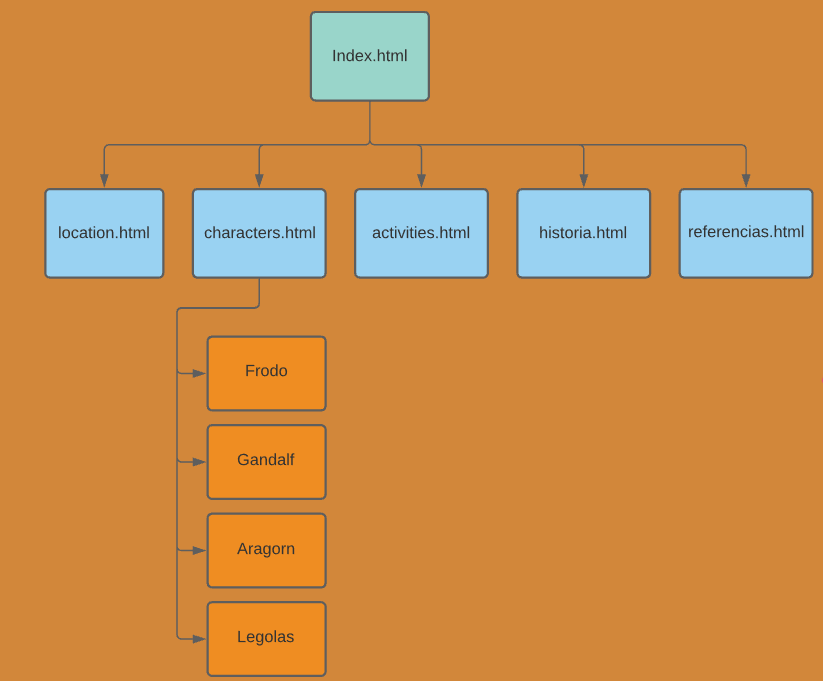
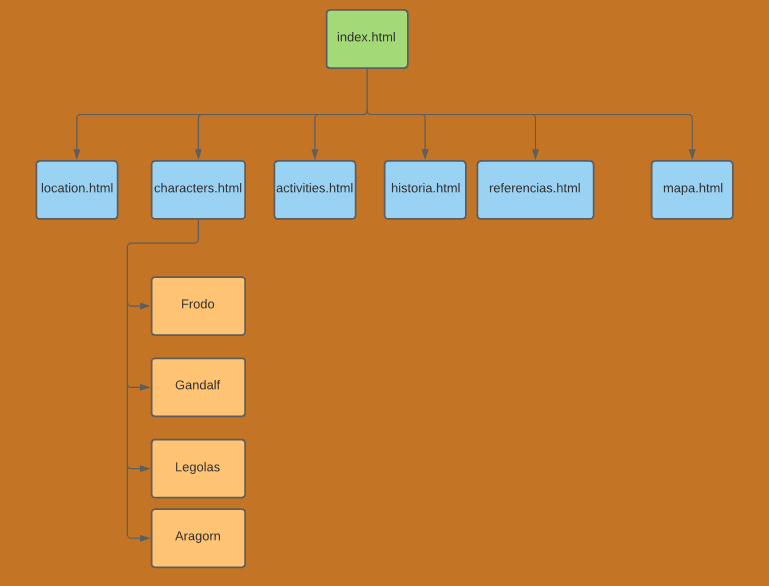
:alien: ejercicio 2 grafica interactiva

Changed region(s): [[0.0312, 0.0, 0.9987, 1.0], [0.9987, 0.5529, 1.0, 0.5836]]

diff --git a/css/estilos.css b/css/estilos.css
@@ -12,8 +12,8 @@
     font-family: Middleearth;
     src: url('../fonts/Middleearth-ao6m.ttf');/*font del señor de los anillos*/
 }
-body {
-    background-color: #D2873A;  /* define un color de fondo para todas las páginas */
+.body {/*fondo pagina historia*/
+    background-color: #c47425;
 }
 .body1 {/*fondo pagina principal*/
     background-image: url(../imagenes/index_background.jpg);
@@ -54,6 +54,9 @@ body {
     background-size: 100% 100%;
     background-position: 0 0px;
     position: sticky;
+}
+.body6 {/*fondo pagina historia*/
+    background-color: #8d6741;
 }
 .title {/*titulo de la pagina*/
     z-index: 2;
@@ -119,7 +122,7 @@ li {
     /*display: block;*/
     color: #DAB47C;
     text-align: center;
-    padding: 5px 105px 5px 105px;
+    padding: 5px 80px 5px 80px;
     text-decoration: none;
     font-size: 17px;
     background-color: #8E5232;
@@ -339,6 +342,109 @@ li {
     text-shadow: 1px 1px #000000;
     font-size: 30px;
 }
+.mapabox{/*contenedor div del mapa*/
+    display:grid;
+    height: 100%;
+}
+.mapa{/*mapa*/
+    max-width: 100%;
+    max-height: 100vh;
+    margin: auto;
+}
+.ringbutton1{/*estilo del boton del mapa*/
+    height: 20px;
+    width: 20px;
+    position: absolute;
+    top: 610px;
+    left: 1050px;
+}
+.ringbutton2{/*estilo del boton del mapa*/
+    height: 20px;
+    width: 20px;
+    position: absolute;
+    top: 610px;
+    left: 750px;
+}
+.ringbutton3{/*estilo del boton del mapa*/
+    height: 20px;
+    width: 20px;
+    position: absolute;
+    top: 490px;
+    left: 750px;
+}
+.ringbutton4{/*estilo del boton del mapa*/
+    height: 20px;
+    width: 20px;
+    position: absolute;
+    top: 360px;
+    left: 890px;
+}
+.ringbutton5{/*estilo del boton del mapa*/
+    height: 20px;
+    width: 20px;
+    position: absolute;
+    top: 320px;
+    left: 550px;
+}
+.ringbutton1:hover{/*estilo del boton del mapa*/
+    opacity: 0.5;
+    cursor: pointer;
+}
+.ringbutton2:hover{/*estilo del boton del mapa*/
+    opacity: 0.5;
+    cursor: pointer;
+}
+.ringbutton3:hover{/*estilo del boton del mapa*/
+    opacity: 0.5;
+    cursor: pointer;
+}
+.ringbutton4:hover{/*estilo del boton del mapa*/
+    opacity: 0.5;
+    cursor: pointer;
+}
+.ringbutton5:hover{/*estilo del boton del mapa*/
+    opacity: 0.5;
+    cursor: pointer;
+}
+/* Modal de información mapa */
+.modal {
+    display: none; /* oculto */
+    position: fixed; 
+    z-index: 2; /* encima de todo */
+    left: 0;
+    top: 0;
+    width: 100%; 
+    height: 100%; 
+    overflow: auto; /* por si se requiere hacer scroll */
+    background-color: rgb(0,0,0); 
+    background-color: rgba(0,0,0,0.4); 
+}
+/* Contenido del modal */
+.modal-content {
+    background-color:  rgba(0, 0, 0, 0.7);
+    border-radius:5px;
+    margin: auto;
+    font-family: Middleearth;
+    color: #E6B956;
+    margin-top: 300px;
+    padding: 20px;
+    border: 1px solid #888;
+    width: 50%;
+}
+/* boton para cerrar el modal */
+.close {
+    color: #aaa;
+    float: right;
+    font-size: 28px;
+    font-weight: bold;
+}
+  
+  .close:hover,
+  .close:focus {
+    color: #E6B956;
+    text-decoration: none;
+    cursor: pointer;
+}
 
   
 /*cambios en el aspecto de algunos elemntos en el caso de que la pantalla dismunya*/
@@ -371,7 +477,7 @@ li {
     }
 }
 
-@media screen and (max-width: 1100px) {
+@media screen and (max-width: 1300px) {
     .navbar a{
         padding: 5px 30px 5px 30px;
     }
@@ -387,10 +493,10 @@ li {
     
     
 }
-@media screen and (max-width: 700px) {
+@media screen and (max-width: 800px) {
     .navbar a{
-        padding: 5px 5px 5px 5px;
-        font-size: 13px;
+        padding: 5px 3px 5px 3px;
+        font-size: 11px;
     }
     .map {
         width: 100%;

diff --git a/map.js b/map.js
@@ -1,0 +1,36 @@
+
+function showModal(id){
+    console.log("click");
+    document.getElementById("Modal").style.display="block";
+    parent = document.getElementById("contenidoModal");
+    title = parent.children[1];
+    content = parent.children[2];
+    if(id==1){
+        title.innerHTML="Mordor"
+        content.innerHTML="Mordor es un país situado al sureste de la Tierra Media, que tuvo gran importancia durante la Guerra del Anillo por ser el lugar donde Sauron, el Señor Oscuro, decidió edificar su fortaleza de Barad-dûr para intentar atacar y dominar a todos los pueblos de la Tierra Media. Se trata de una región desolada, rodeada de montañas con un interior desértico sin vegetación. "
+    }else if(id==2){
+        title.innerHTML="Gondor"
+        content.innerHTML="Gondor es el nombre que recibió el reino del exilio del Sur que fue fundado después de la Caída de Númenor por Isildur y su hermano Anárion. El padre de ambos, Elendil, fundador de Arnor, el reino del exilio del Norte, también ejercía soberanía sobre Gondor. "
+    }else if(id==3){
+        title.innerHTML="Rohan"
+        content.innerHTML="Rohan es un reino fundado por los Hombres del Norte, los Eorlingas, que ocupa las grandes llanuras cubiertas de pastos situadas al norte de las Montañas Blancas y al este de las Montañas Nubladas. Sus habitantes descienden de los hombres de Éothéod, y se caracterizan por ser amantes de los caballos y por ser los principales aliados del reino de Gondor."
+    }else if(id==4){
+        title.innerHTML="Rhovanion"
+        content.innerHTML="Rhovanion, también conocida como las Tierras Salvajes o las Tierras Ásperas, es una extensa región que se extiende al este de las Montañas Nubladas (s. Hithaeglir), hasta el Río Rápido (s. Celduin) limitando con Rohan al sur, Eriador al oeste, Forodwaith al norte y Rhûn al este."
+    }else if(id==5){
+        title.innerHTML="Eriador"
+        content.innerHTML="Es una de las regiones más extensas de la Tierra Media . Se encuentra habitado por muchos pueblos, y en él viven Hombres, Elfos, Enanos y Hobbits . Fue aquí donde en los primeros años de la Tercera Edad los Hombres fundaron el reino de Arnor, que se acabó perdiendo, quedando sólo el reino de Gondor. "
+    }
+}
+
+// When the user clicks on <span> (x), close the modal
+function closeModal(){
+    document.getElementById("Modal").style.display="none";
+}
+
+// When the user clicks anywhere outside of the modal, close it
+window.onclick = function(event) {
+  if (event.target == modal) {
+    modal.style.display = "none";
+  }
+} 

diff --git a/map.html b/map.html
@@ -1,0 +1,41 @@
+<!doctype html>
+<html>
+    <head>
+        <meta charset="UTF-8">
+        <meta lang="es">
+        <title>Indice</title>
+        <link href="css/estilos.css" rel="stylesheet" type="text/css">
+        <meta name="viewport" content="width=device-width; initial-scale=1.0">
+        <script src="map.js"></script>
+    </head>
+    <body class="body6">
+        <!--barra de navegacion-->
+        <div class="title"><h1>Lord of the Rings</h1></div>
+        <div class="navbar">
+            <a class="item" href="index.html" target="_self">Inicio</a>
+            <a class="item" href="location.html">Ubicación</a>
+            <a class="item" href="characters.html">Personajes</a>
+            <a class="item" href="activities.html">Actividades</a>
+            <a class="item" href="historia.html">Historia</a>
+            <a class="item" href="map.html">Mapa</a>
+        </div>
+        <!--contenido pagina mapa-->
+        <div class="mapabox">
+            <img class="mapa" src="imagenes/MAPA.jpeg" alt=""/>
+            <img id="ringb" class="ringbutton1" src="imagenes/ringbutton.png" onclick="showModal(1)" alt=""/>
+            <img id="ringb" class="ringbutton2" src="imagenes/ringbutton.png" onclick="showModal(2)" alt=""/>
+            <img id="ringb" class="ringbutton3" src="imagenes/ringbutton.png" onclick="showModal(3)" alt=""/>
+            <img id="ringb" class="ringbutton4" src="imagenes/ringbutton.png" onclick="showModal(4)" alt=""/>
+            <img id="ringb" class="ringbutton5" src="imagenes/ringbutton.png" onclick="showModal(5)" alt=""/>
+        </div>
+        <!-- Modal de la informacion del lugar  -->
+        <div id="Modal" class="modal">
+        <!-- contenido del modal -->
+            <div id="contenidoModal"class="modal-content">
+                <span class="close" onclick="closeModal()">&times;</span>
+                <h3>...</h3>
+                <p>...</p>
+            </div>
+        </div>
+    </body>
+</html>

diff --git a/referencias.html b/referencias.html
@@ -38,6 +38,12 @@
             <li>gandalf(texto)->https://esdla.fandom.com/wiki/Gandalf</li>
             <li>aragorn(texto)->https://esdla.fandom.com/wiki/Aragorn_II</li>
             <li>legolas(texto)->https://esdla.fandom.com/wiki/Legolas</li>
+            <li>boton anillo->https://cdn4.iconfinder.com/data/icons/movies-2-yellow/60/064_-_One_Ring-512.png</li>
+            <li>Mordor(texto)->https://esdla.fandom.com/wiki/Mordor</li>
+            <li>Eriador(texto)->https://esdla.fandom.com/wiki/Eriador</li>
+            <li>Rhovanion(texto)->https://esdla.fandom.com/wiki/Rhovanion</li>
+            <li>Rohan(texto)->https://esdla.fandom.com/wiki/Rohan</li>
+            <li>Gondor(texto)->https://esdla.fandom.com/wiki/Gondor</li>
         </ul>
         <div >
             <h2 class="navmaptitle">Mapa de navegación</h2>

diff --git a/index.html b/index.html
@@ -2,11 +2,11 @@
 <html>
     <head>
         <meta charset="UTF-8">
-
         <meta lang="es">
         <title>Indice</title>
         <link href="css/estilos.css" rel="stylesheet" type="text/css">
         <meta name="viewport" content="width=device-width; initial-scale=1.0">
+        
     </head>
     <body class="body1">
         <!--barra de navegacion-->
@@ -17,6 +17,7 @@
             <a class="item" href="characters.html">Personajes</a>
             <a class="item" href="activities.html">Actividades</a>
             <a class="item" href="historia.html">Historia</a>
+            <a class="item" href="map.html">Mapa</a>
         </div>
         <!--contenido pagina inicio-->
         <div class="contenido">

diff --git a/activities.html b/activities.html
@@ -17,6 +17,7 @@
             <a class="item" href="characters.html">Personajes</a>
             <a class="item" href="activities.html">Actividades</a>
             <a class="item" href="historia.html">Historia</a>
+            <a class="item" href="map.html">Mapa</a>
         </div>
         <h3 class="act">Actividades</h3>
         <div class="actgallery">

diff --git a/historia.html b/historia.html
@@ -17,6 +17,7 @@
             <a class="item" href="characters.html">Personajes</a>
             <a class="item" href="activities.html">Actividades</a>
             <a class="item" href="historia.html">Historia</a>
+            <a class="item" href="map.html">Mapa</a>
         </div>
         <div class="historysec">
             <div class="historycont">

diff --git a/location.html b/location.html
@@ -16,6 +16,7 @@
             <a class="item" href="characters.html">Personajes</a>
             <a class="item" href="activities.html">Actividades</a>
             <a class="item" href="historia.html">Historia</a>
+            <a class="item" href="map.html">Mapa</a>
         </div>
         <!--seccion del mapa-->
         <div class="mapsection">

diff --git a/characters.html b/characters.html
@@ -17,6 +17,7 @@
             <a class="item" href="">Personajes</a>
             <a class="item" href="activities.html">Actividades</a>
             <a class="item" href="historia.html">Historia</a>
+            <a class="item" href="map.html">Mapa</a>
         </div>
         <div class="charintro">
             <h3>Personajes</h3>
